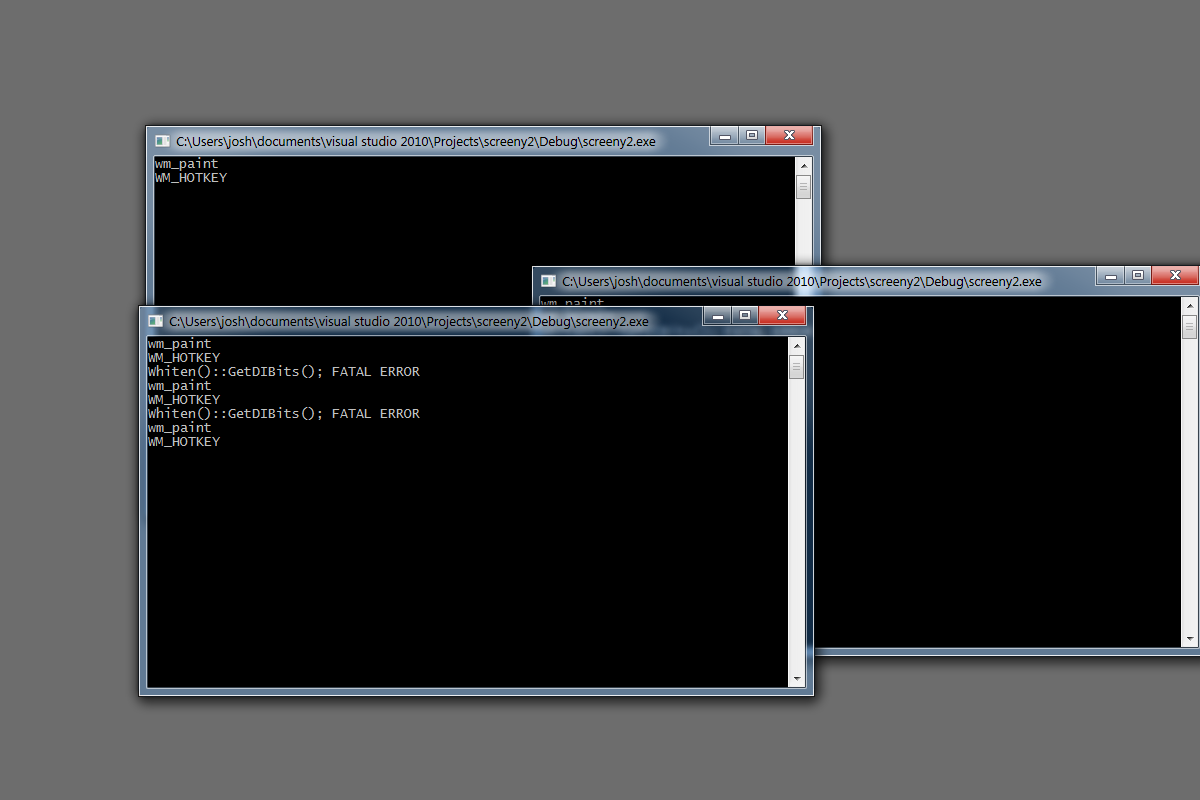
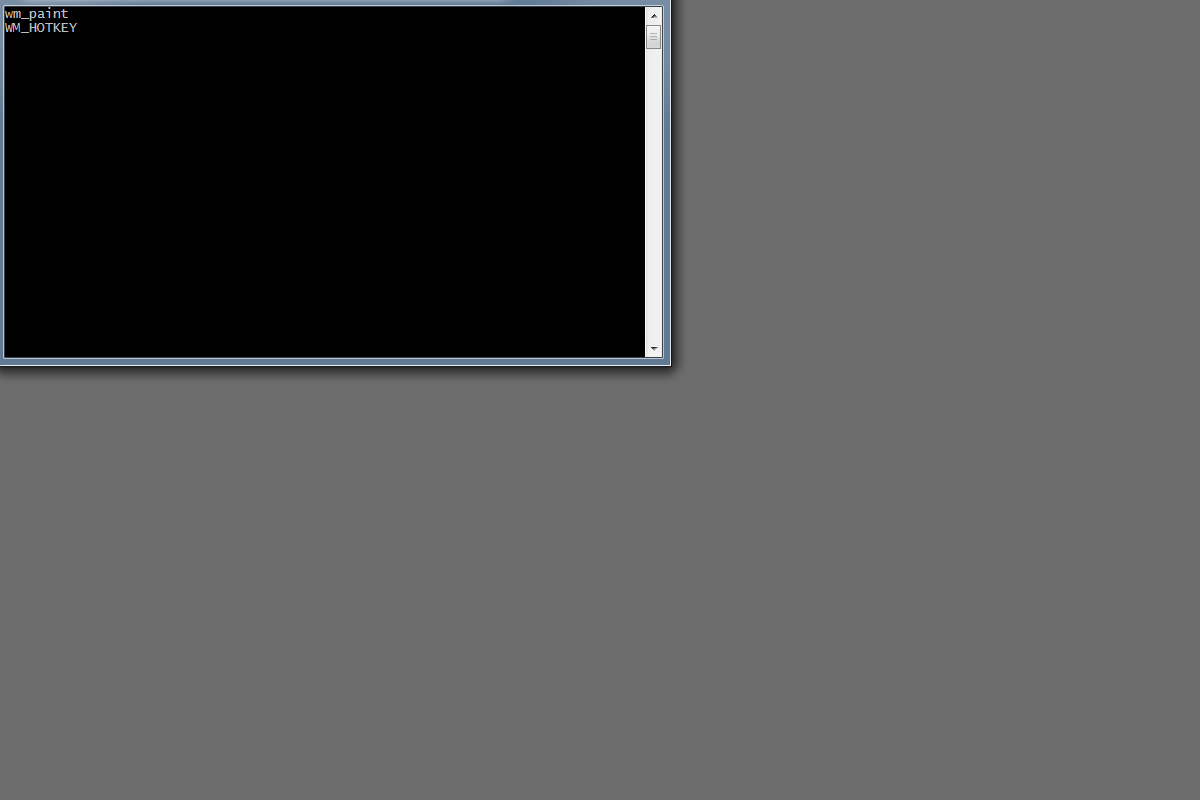
Fixed Whiten() error
Finally fixed GetDIBits() error. Turns out I was supposed to use
GetBitmapBits().
=_=

diff --git a/Main.cpp b/Main.cpp
@@ -59,7 +59,8 @@ LRESULT CALLBACK MainWindowProc ( HWND hwnd, UINT uMsg, WPARAM wParam, LPARAM lP
 
 			Whiten( desktop_capture_dc, desktop_capture_bitmap, desktop_rect.right-desktop_rect.left, desktop_rect.bottom-desktop_rect.top, &overlay_bitmap );
 			
-			main_window_brush = CreatePatternBrush( desktop_capture_bitmap );
+			//main_window_brush = CreatePatternBrush( desktop_capture_bitmap );
+			main_window_brush = CreatePatternBrush( overlay_bitmap );
 			if( main_window_brush == NULL )
 			{
 				logger.printf( _T("CreatePatternBrush() error: %x\r\n"), GetLastError() );

diff --git a/Imaging.cpp b/Imaging.cpp
@@ -22,10 +22,10 @@ bool Whiten( HDC source_dc, HBITMAP source_bitmap, unsigned int width, unsigned 
 		return false;
 	}
 
-	result = GetDIBits( source_dc, source_bitmap, 0, height, pwhitened_data, &whitened_bitmapinfo, DIB_RGB_COLORS );
+	result = GetBitmapBits( source_bitmap, width * 4 * height, pwhitened_data );
 	if( result == NULL )
 	{
-		logger.printf( _T("Whiten()::GetDIBits(); FATAL ERROR\r\n") );
+		logger.printf( _T("Whiten()::GetBitmapBits(); FATAL ERROR\r\n") );
 		return false;
 	}
 

diff --git a/WindowManager.cpp b/WindowManager.cpp
@@ -101,7 +101,7 @@ bool WindowManager::Initialize( WNDCLASSEX wndclass_in, unsigned int x, unsigned
 		return false;
 	}
 
-	//ShowWindow( this->window, SW_SHOW );
+	ShowWindow( this->window, SW_SHOW );
 
 	//SendMessage( this->main_window, WM_SETFONT, (WPARAM)this->primary_font, (LPARAM)TRUE );
 
